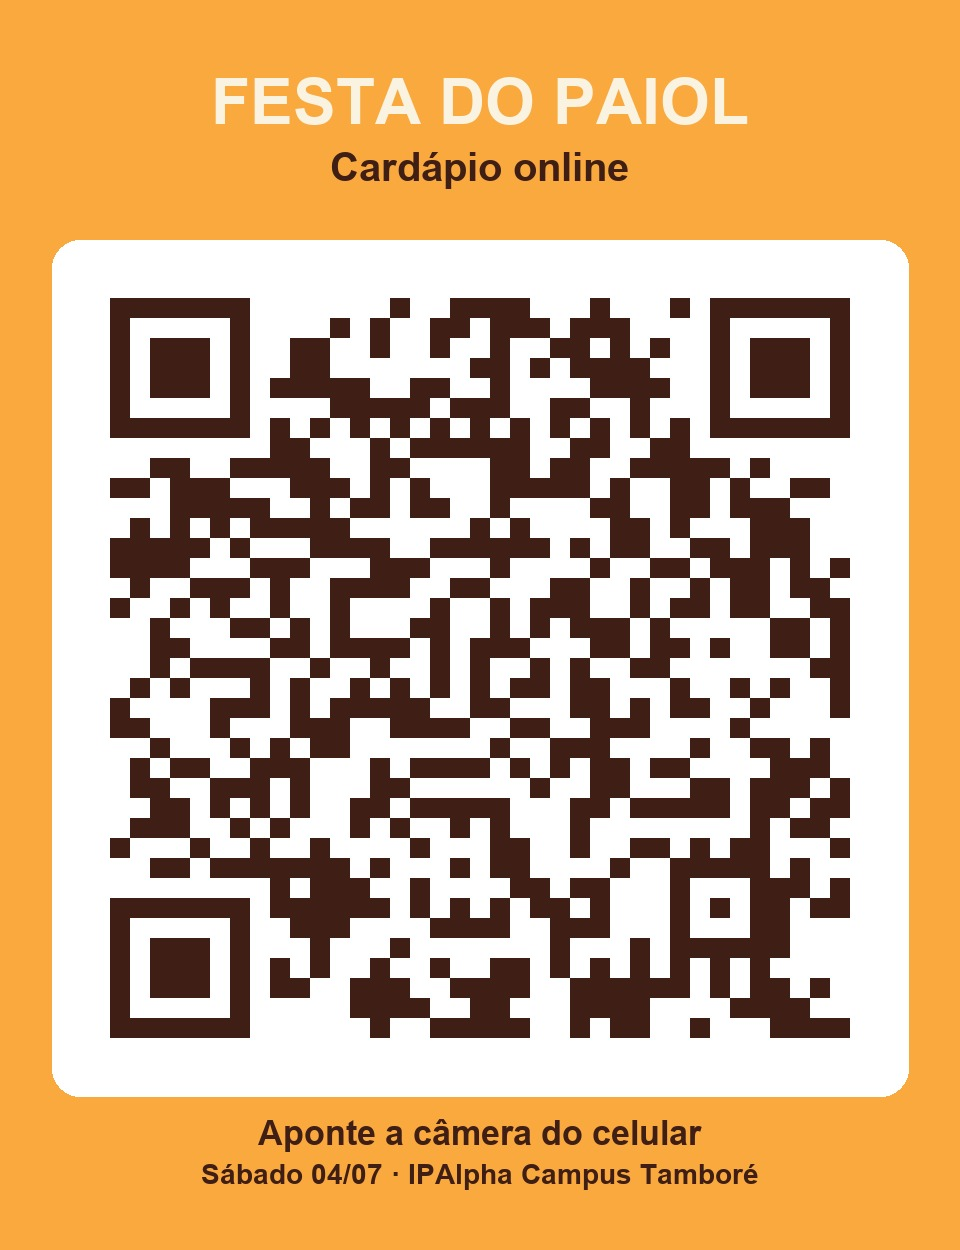
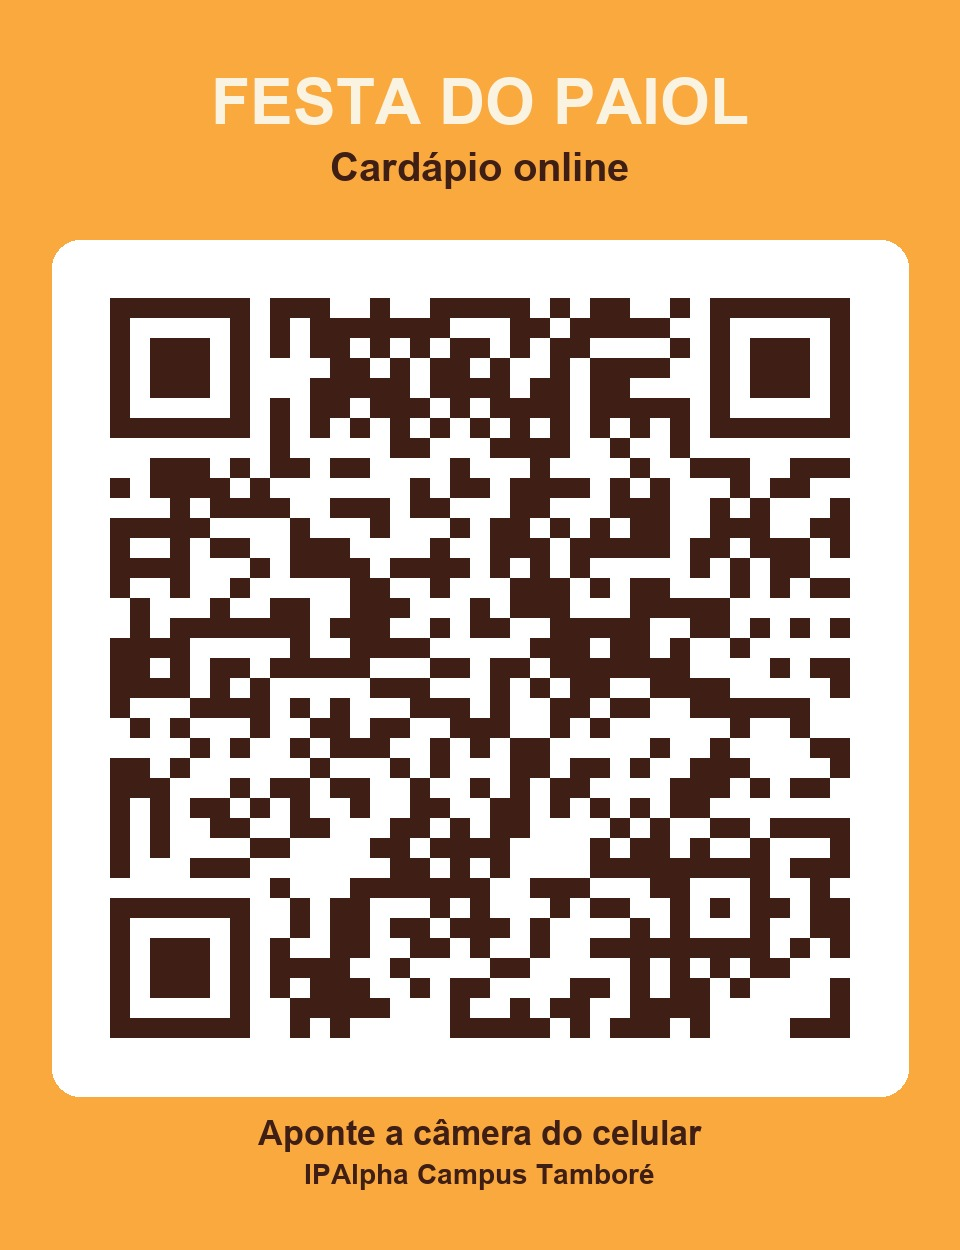
Remove rodape Bom arraia

Changed region(s): [[0.0938, 0.2184, 0.9062, 0.8424], [0.2188, 0.9048, 0.7812, 0.9672]]

diff --git a/index.html b/index.html
@@ -149,7 +149,7 @@ box-shadow:0 0 6px rgba(221,74,78,.5);animation:flick 1.6s ease-in-out infinite}
 <li class="row" data-n="anônimo (envio/resp.)"><span class="nm">Anônimo (envio/resp.)</span><span class="dots"></span><span class="pr">R$ 3</span></li></ul></article>
 <article class="card" data-cat="escape" style="--i:4"><header class="cat-h"><span class="flame"></span><h3>Escape</h3></header><ul class="items"><li class="row" data-n="individual"><span class="nm">Individual</span><span class="dots"></span><span class="pr">R$ 15</span></li></ul></article></section>
   <p class="noRes" id="noRes">Nada encontrado.</p>
-  <p class="foot">Bom arraiá! 🔥</p>
+  
 </div>
 <button class="fab fab-top" id="toTop" aria-label="Topo">▲</button>
 <script>
